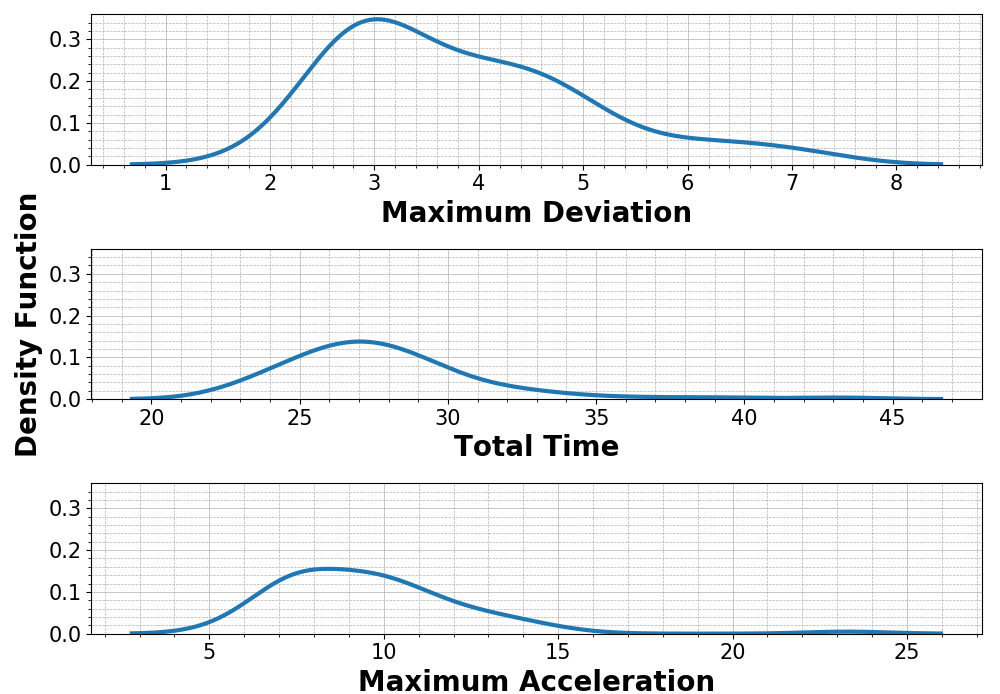
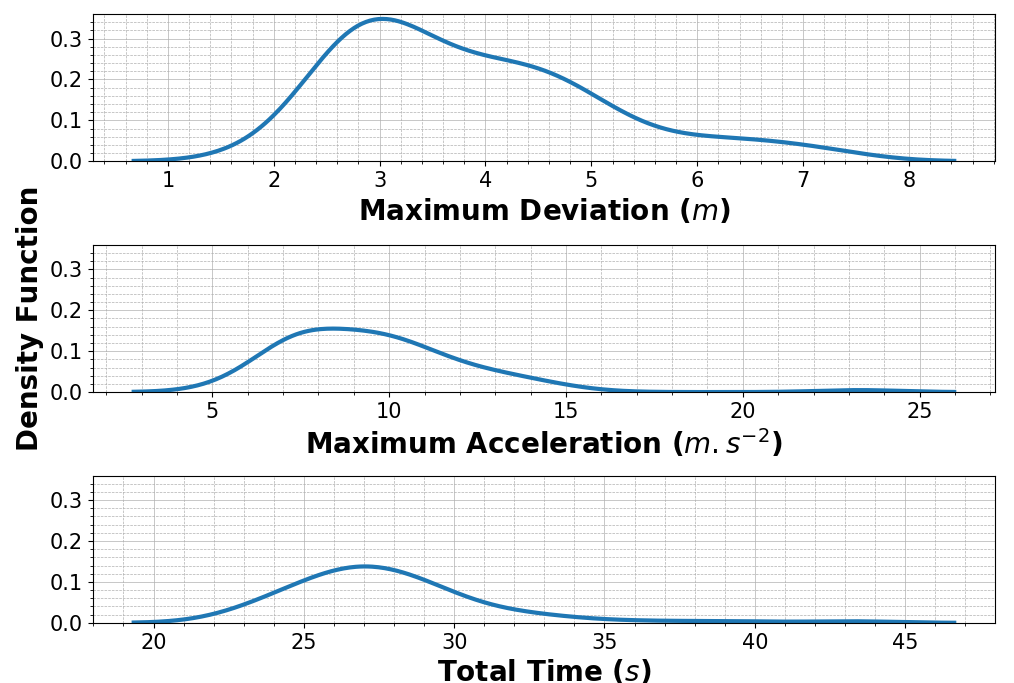
Added new performance metrics

Changed region(s): [[0.0, 0.2767, 0.992, 1.0], [0.031, 0.0, 0.992, 0.3382]]

diff --git a/TestGeneration/AnalyzeResults/RQ1_METRICS.py b/TestGeneration/AnalyzeResults/RQ1_METRICS.py
@@ -289,30 +289,13 @@ plt.grid(b=True, which='major', linestyle='-', linewidth=0.5)
 plt.grid(b=True, which='minor', linestyle='--', linewidth=0.5)
 plt.plot(xs,prob_density, linewidth=3)
 plt.ylim([0,max(prob_density) + 0.1 * max(prob_density)])
-plt.xlabel("Maximum Deviation", fontweight='bold', fontsize=20)
+plt.xlabel("Maximum Deviation ($m$)", fontweight='bold', fontsize=20)
 # plt.ylabel("Density Function", fontweight='bold', fontsize=20)
 plt.xticks(fontsize=15)
 plt.yticks(fontsize=15)
 plt.ylim([0,0.36])
 
 plt.subplot(312)
-# plt.hist(total_time_norm, bins=15)
-density = gaussian_kde(total_time_norm)
-std_dev = np.std(total_time_norm)
-xs = np.linspace(min(total_time_norm)-std_dev, max(total_time_norm)+std_dev, 400)
-prob_density = density(xs)
-plt.minorticks_on()
-plt.grid(b=True, which='major', linestyle='-', linewidth=0.5)
-plt.grid(b=True, which='minor', linestyle='--', linewidth=0.5)
-plt.plot(xs,prob_density, linewidth=3)
-plt.ylim([0,max(prob_density) + 0.1 * max(prob_density)])
-plt.xlabel("Total Time", fontweight='bold', fontsize=20)
-plt.ylabel("Density Function", fontweight='bold', fontsize=20)
-plt.xticks(fontsize=15)
-plt.yticks(fontsize=15)
-plt.ylim([0,0.36])
-
-plt.subplot(313)
 # plt.hist(max_acc_norm, bins=15)
 density = gaussian_kde(max_acc_norm)
 std_dev = np.std(max_acc_norm)
@@ -323,11 +306,30 @@ plt.grid(b=True, which='major', linestyle='-', linewidth=0.5)
 plt.grid(b=True, which='minor', linestyle='--', linewidth=0.5)
 plt.plot(xs,prob_density, linewidth=3)
 plt.ylim([0,max(prob_density) + 0.1 * max(prob_density)])
-plt.xlabel("Maximum Acceleration", fontweight='bold', fontsize=20)
+plt.xlabel("Maximum Acceleration ($m.s^{-2}}$)", fontweight='bold', fontsize=20)
+plt.ylabel("Density Function", fontweight='bold', fontsize=20)
+plt.xticks(fontsize=15)
+plt.yticks(fontsize=15)
+plt.ylim([0,0.36])
+
+
+plt.subplot(313)
+# plt.hist(total_time_norm, bins=15)
+density = gaussian_kde(total_time_norm)
+std_dev = np.std(total_time_norm)
+xs = np.linspace(min(total_time_norm)-std_dev, max(total_time_norm)+std_dev, 400)
+prob_density = density(xs)
+plt.minorticks_on()
+plt.grid(b=True, which='major', linestyle='-', linewidth=0.5)
+plt.grid(b=True, which='minor', linestyle='--', linewidth=0.5)
+plt.plot(xs,prob_density, linewidth=3)
+plt.ylim([0,max(prob_density) + 0.1 * max(prob_density)])
+plt.xlabel("Total Time ($s$)", fontweight='bold', fontsize=20)
 # plt.ylabel("Density Function", fontweight='bold', fontsize=20)
 plt.xticks(fontsize=15)
 plt.yticks(fontsize=15)
 plt.ylim([0,0.36])
+
 
 
 fig2.tight_layout()
